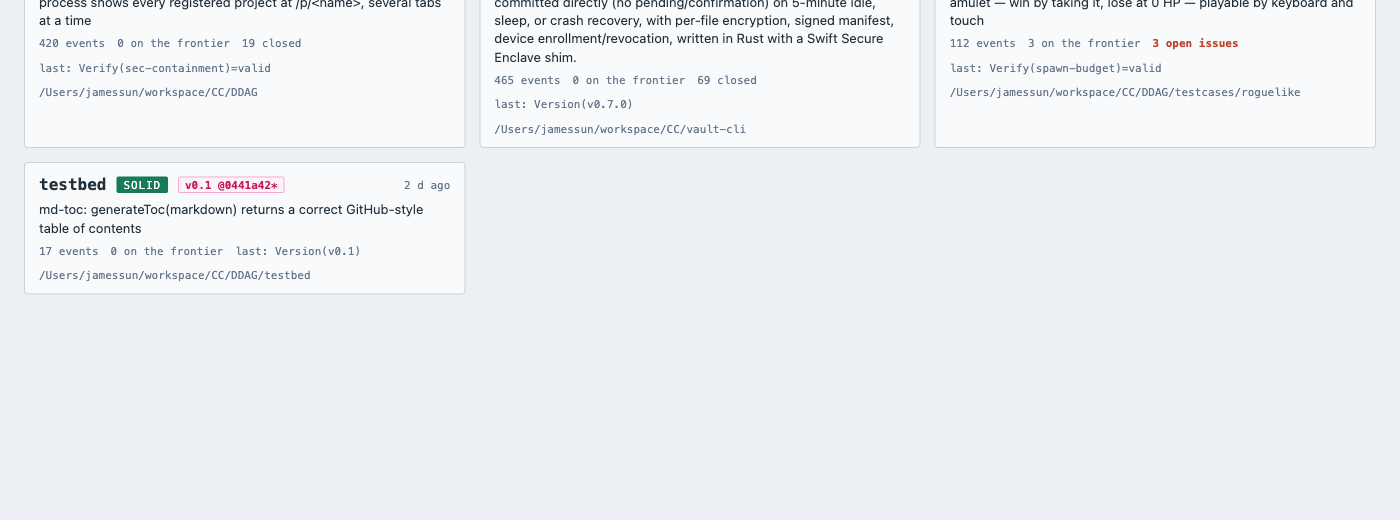
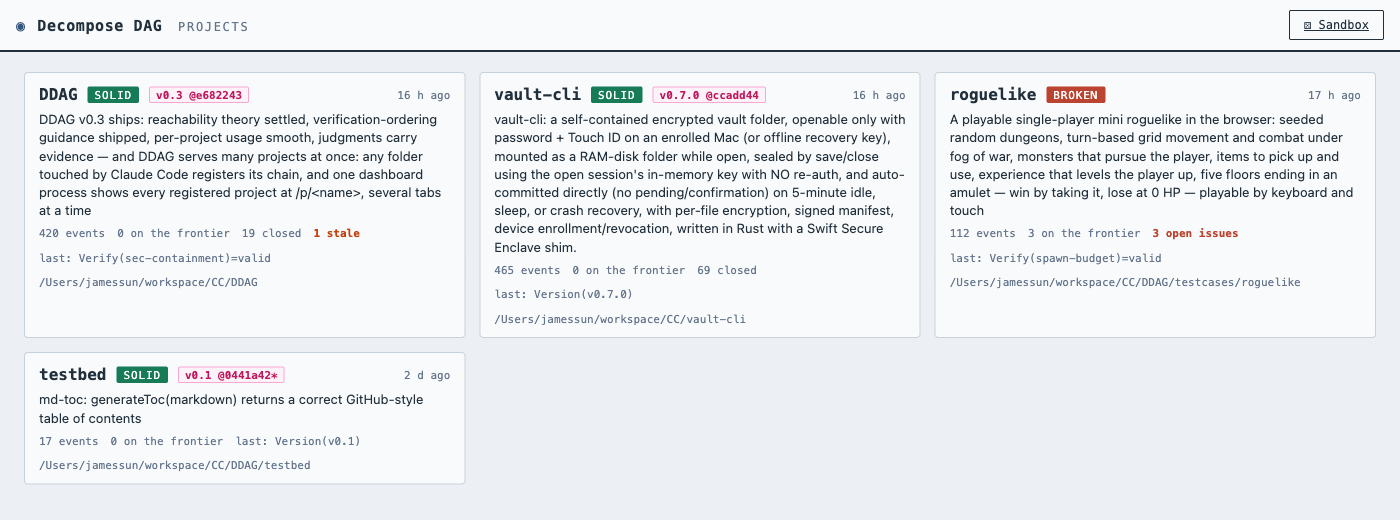
README: projects screenshot captured whole; PORT noted

diff --git a/README.md b/README.md
@@ -53,7 +53,7 @@ Start the dashboard once and leave it running. Tabs stay live while Claude
 Code sessions come and go:
 
 ```sh
-npm run dashboard         # http://localhost:5199/
+npm run dashboard         # http://localhost:5199/  (PORT=... to change it)
 ```
 
 ## Use
